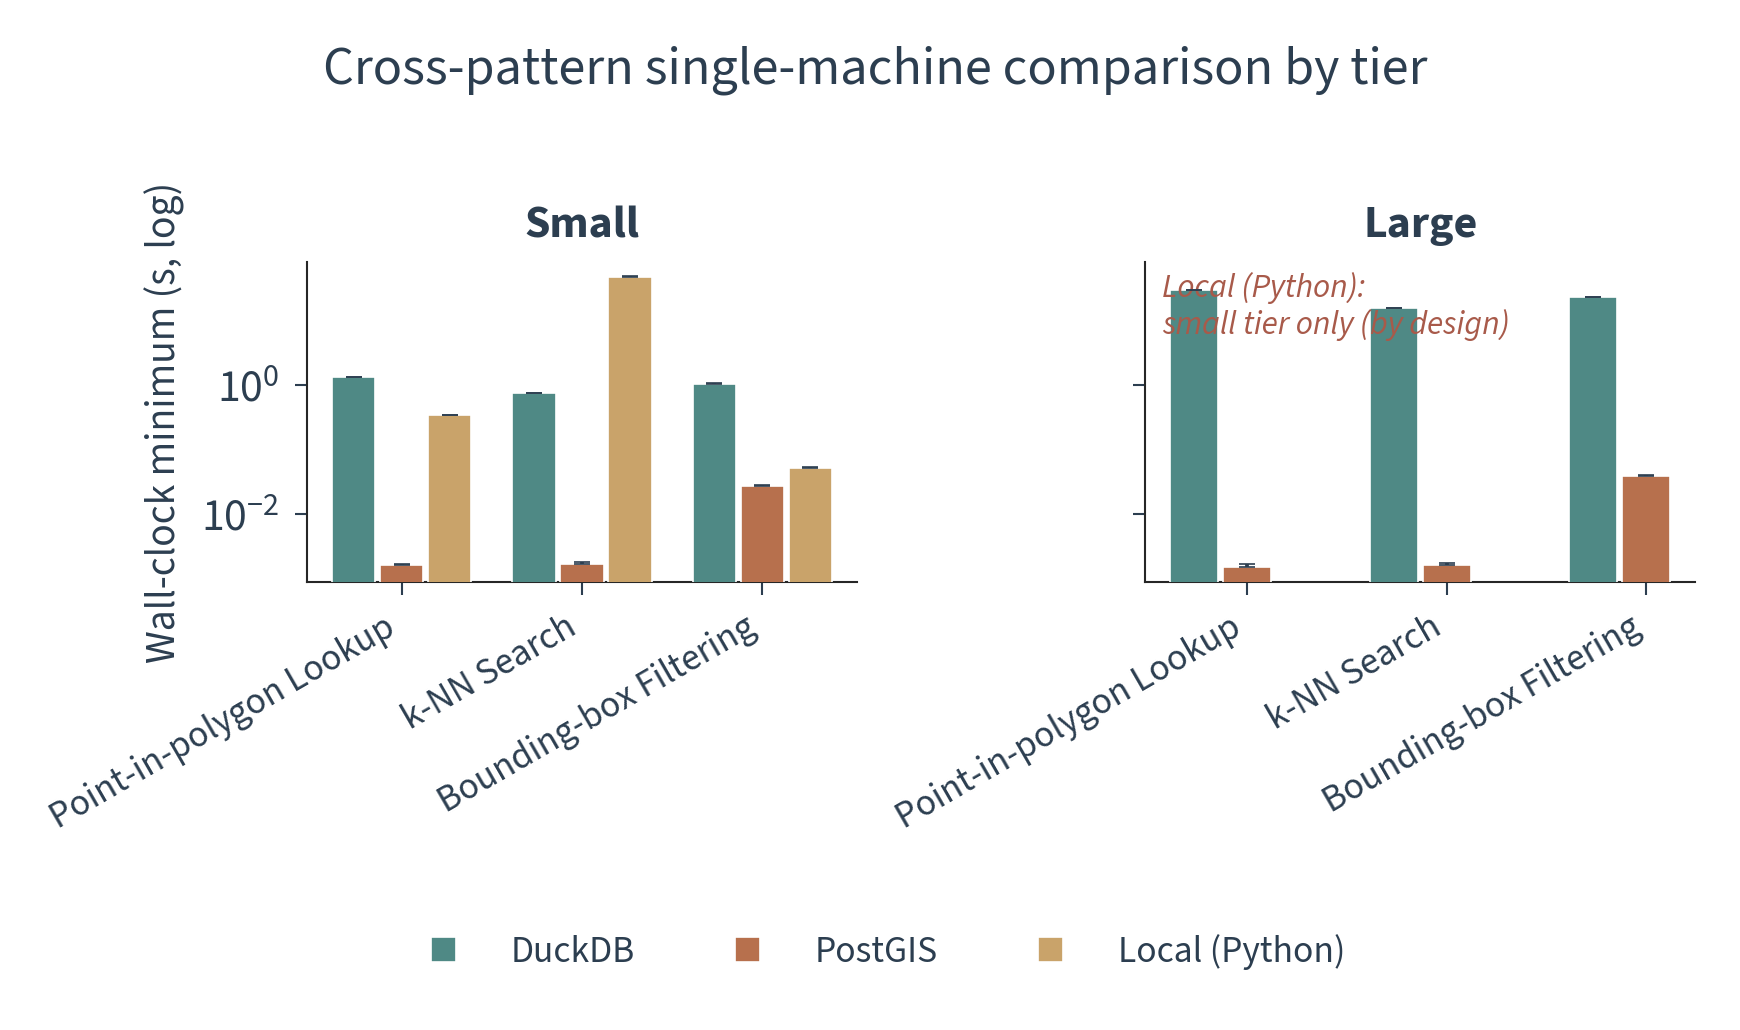
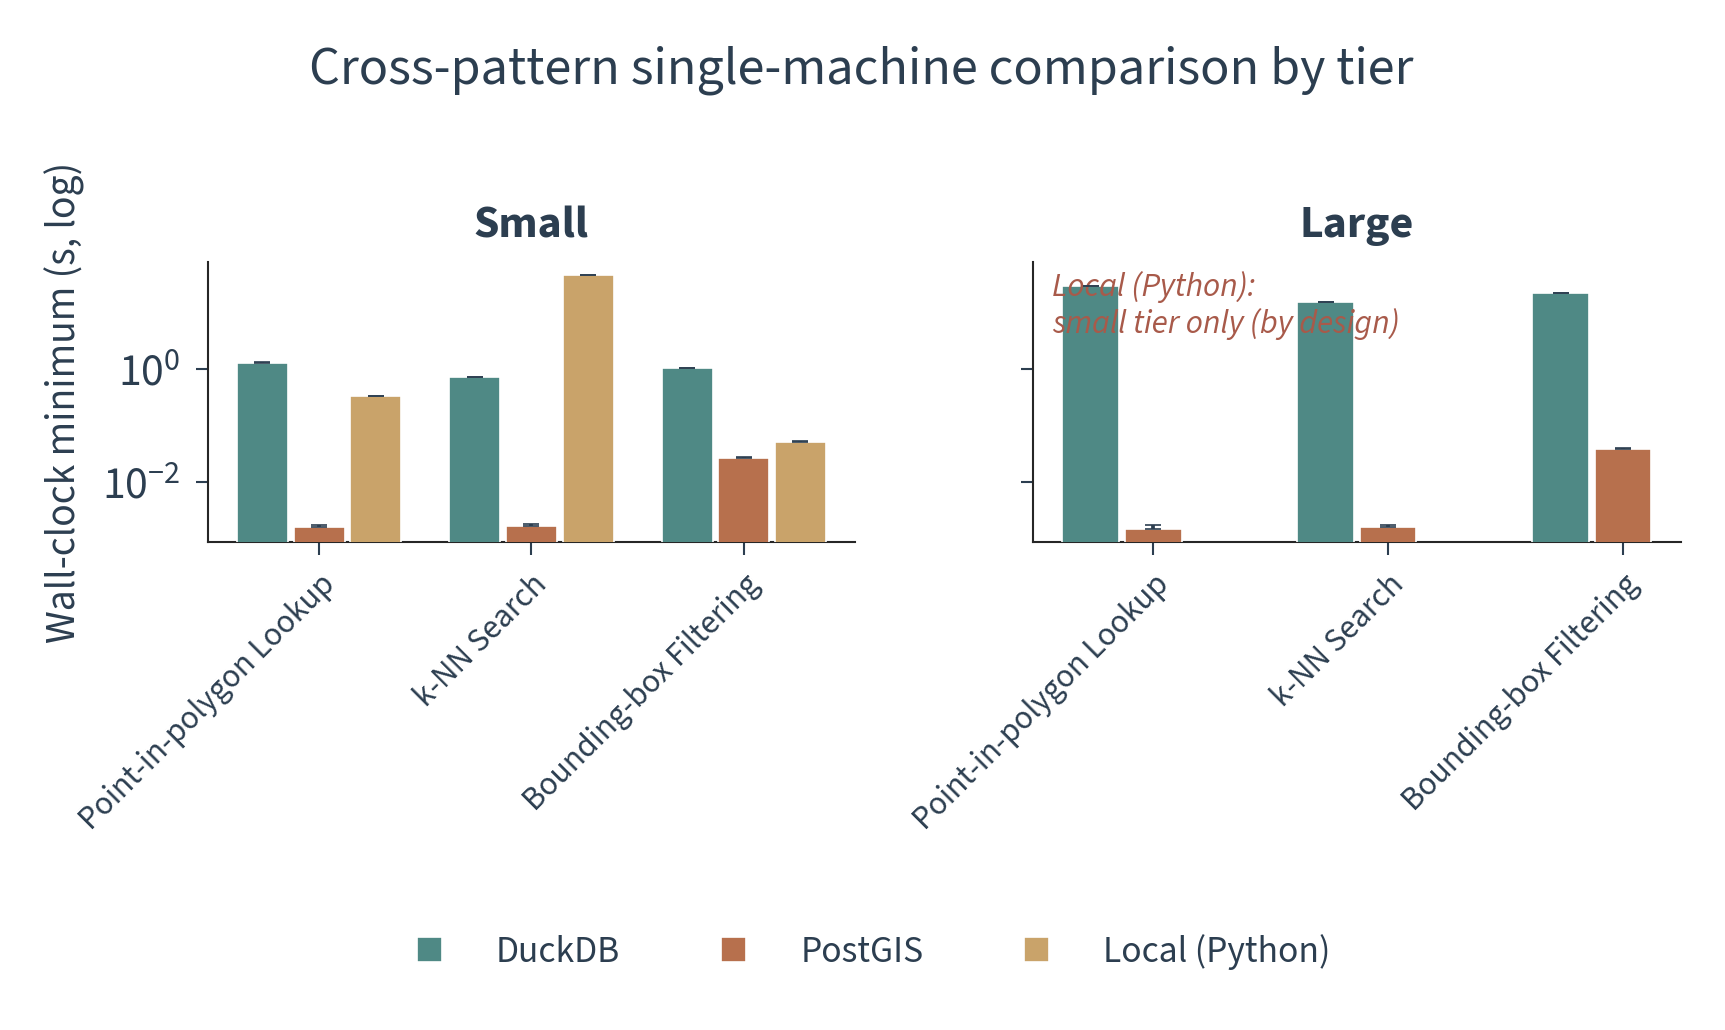
Steepen cross-pattern (5.23) x-labels to 45 deg so they don't overlap
The three workload names per ~2.9 in panel collided at 30 deg; rotate 45 deg
(anchored) at 8 pt so they separate. Regenerate the figure.

diff --git a/src/plotting/thesis_figures.py b/src/plotting/thesis_figures.py
@@ -1959,8 +1959,10 @@ def fig_cross_pattern(successful, workloads, configs, tiers, style, out_path):
                         fontsize=8, fontstyle="italic", color=PALETTE["thesisbrick"])
         ax.set_yscale("log")
         ax.set_xticks(range(len(workloads)))
-        ax.set_xticklabels([style.workload_label(w) for w in workloads], rotation=30,
-                           ha="right", fontsize=9)
+        # Long workload names, three per ~2.9 in panel: steep rotation + smaller
+        # font so the angled labels do not overlap each other.
+        ax.set_xticklabels([style.workload_label(w) for w in workloads], rotation=45,
+                           ha="right", rotation_mode="anchor", fontsize=8)
         ax.set_title(ds.capitalize(), fontsize=11, fontweight="bold")
         if ax is axes[0]:
             ax.set_ylabel("Wall-clock minimum (s, log)")
